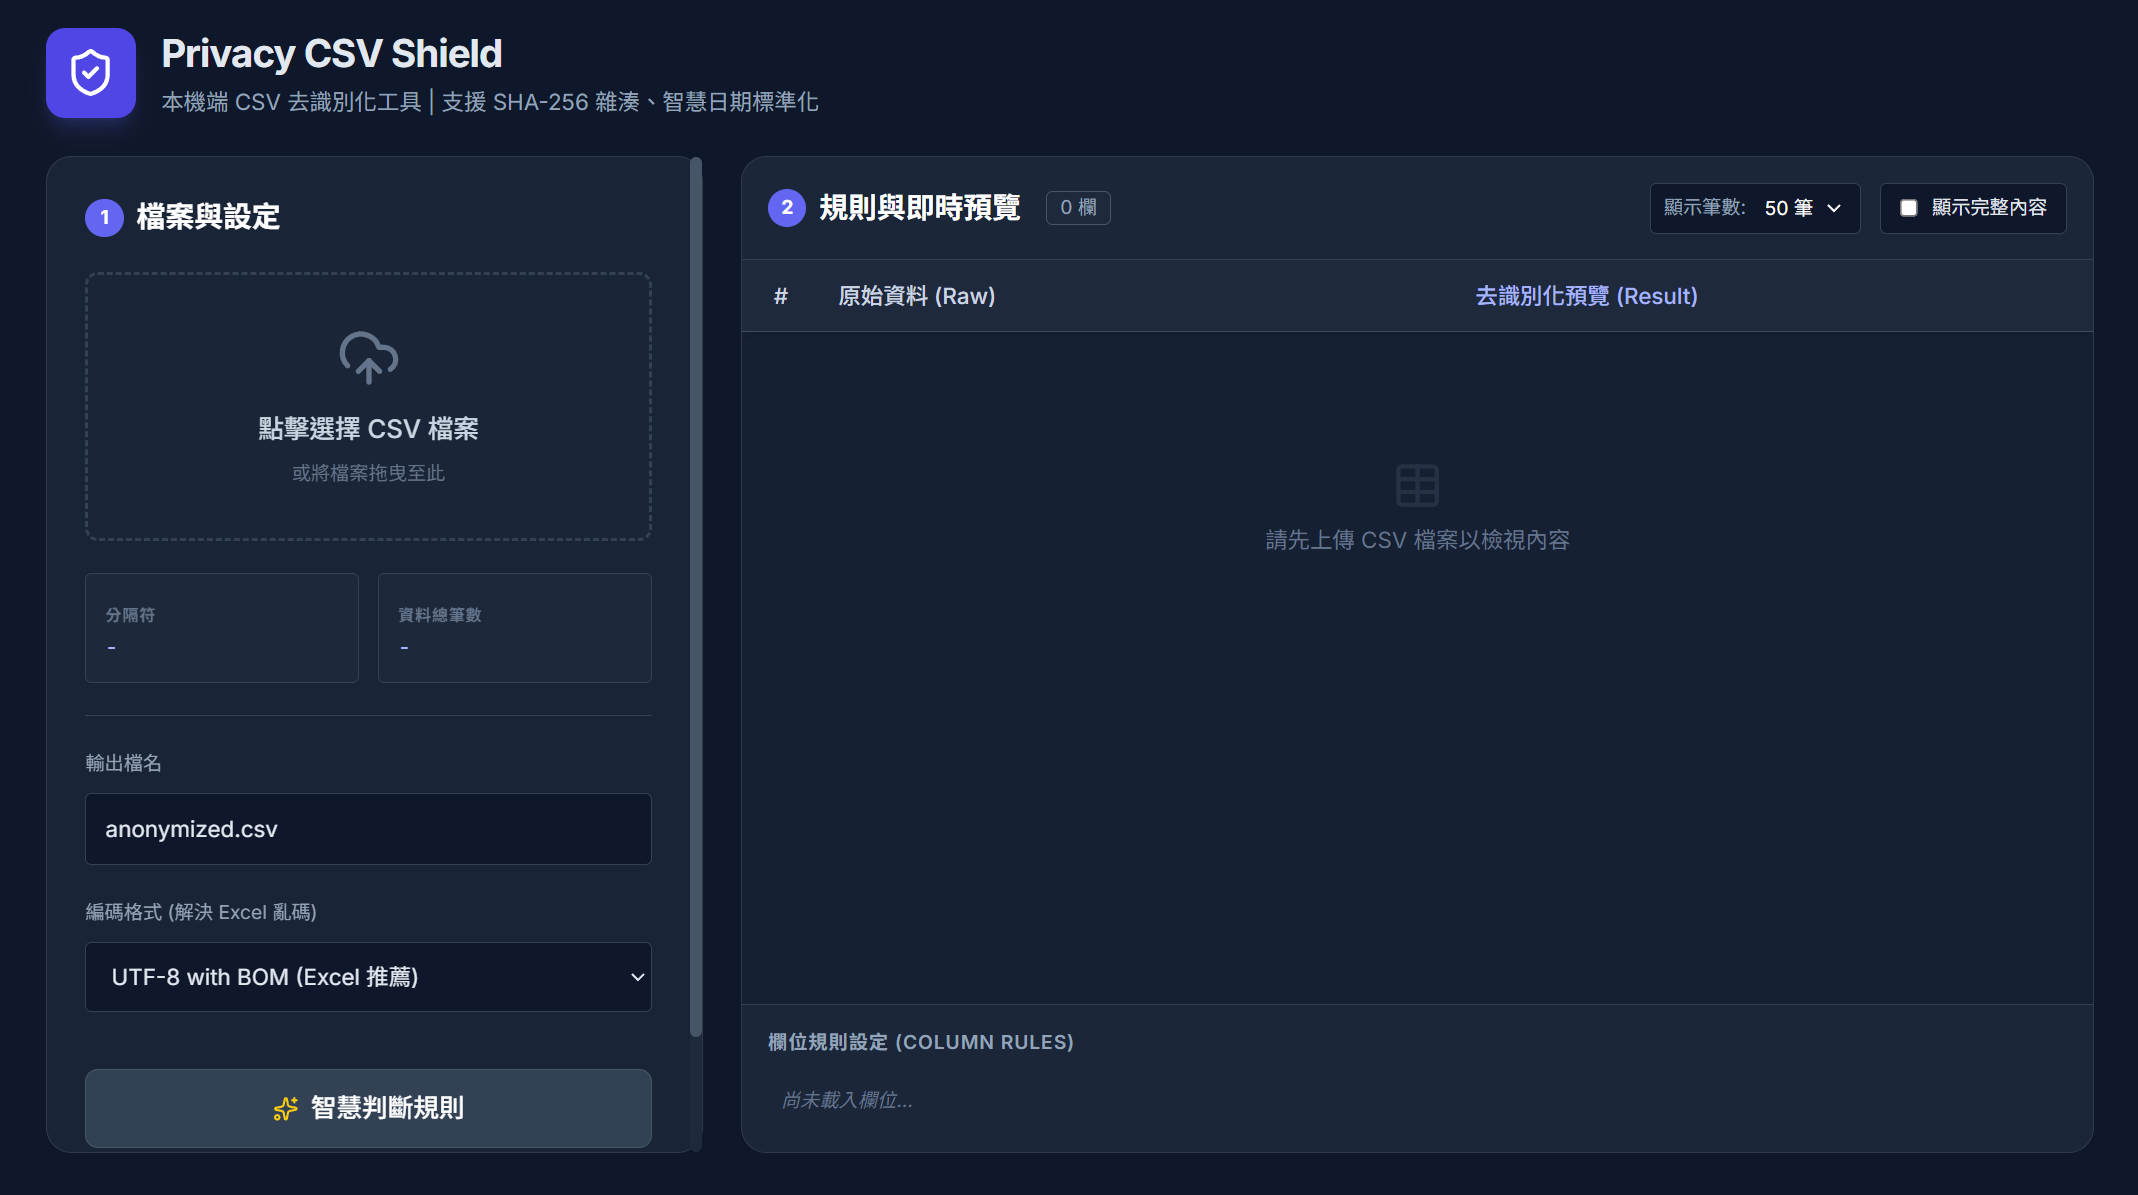
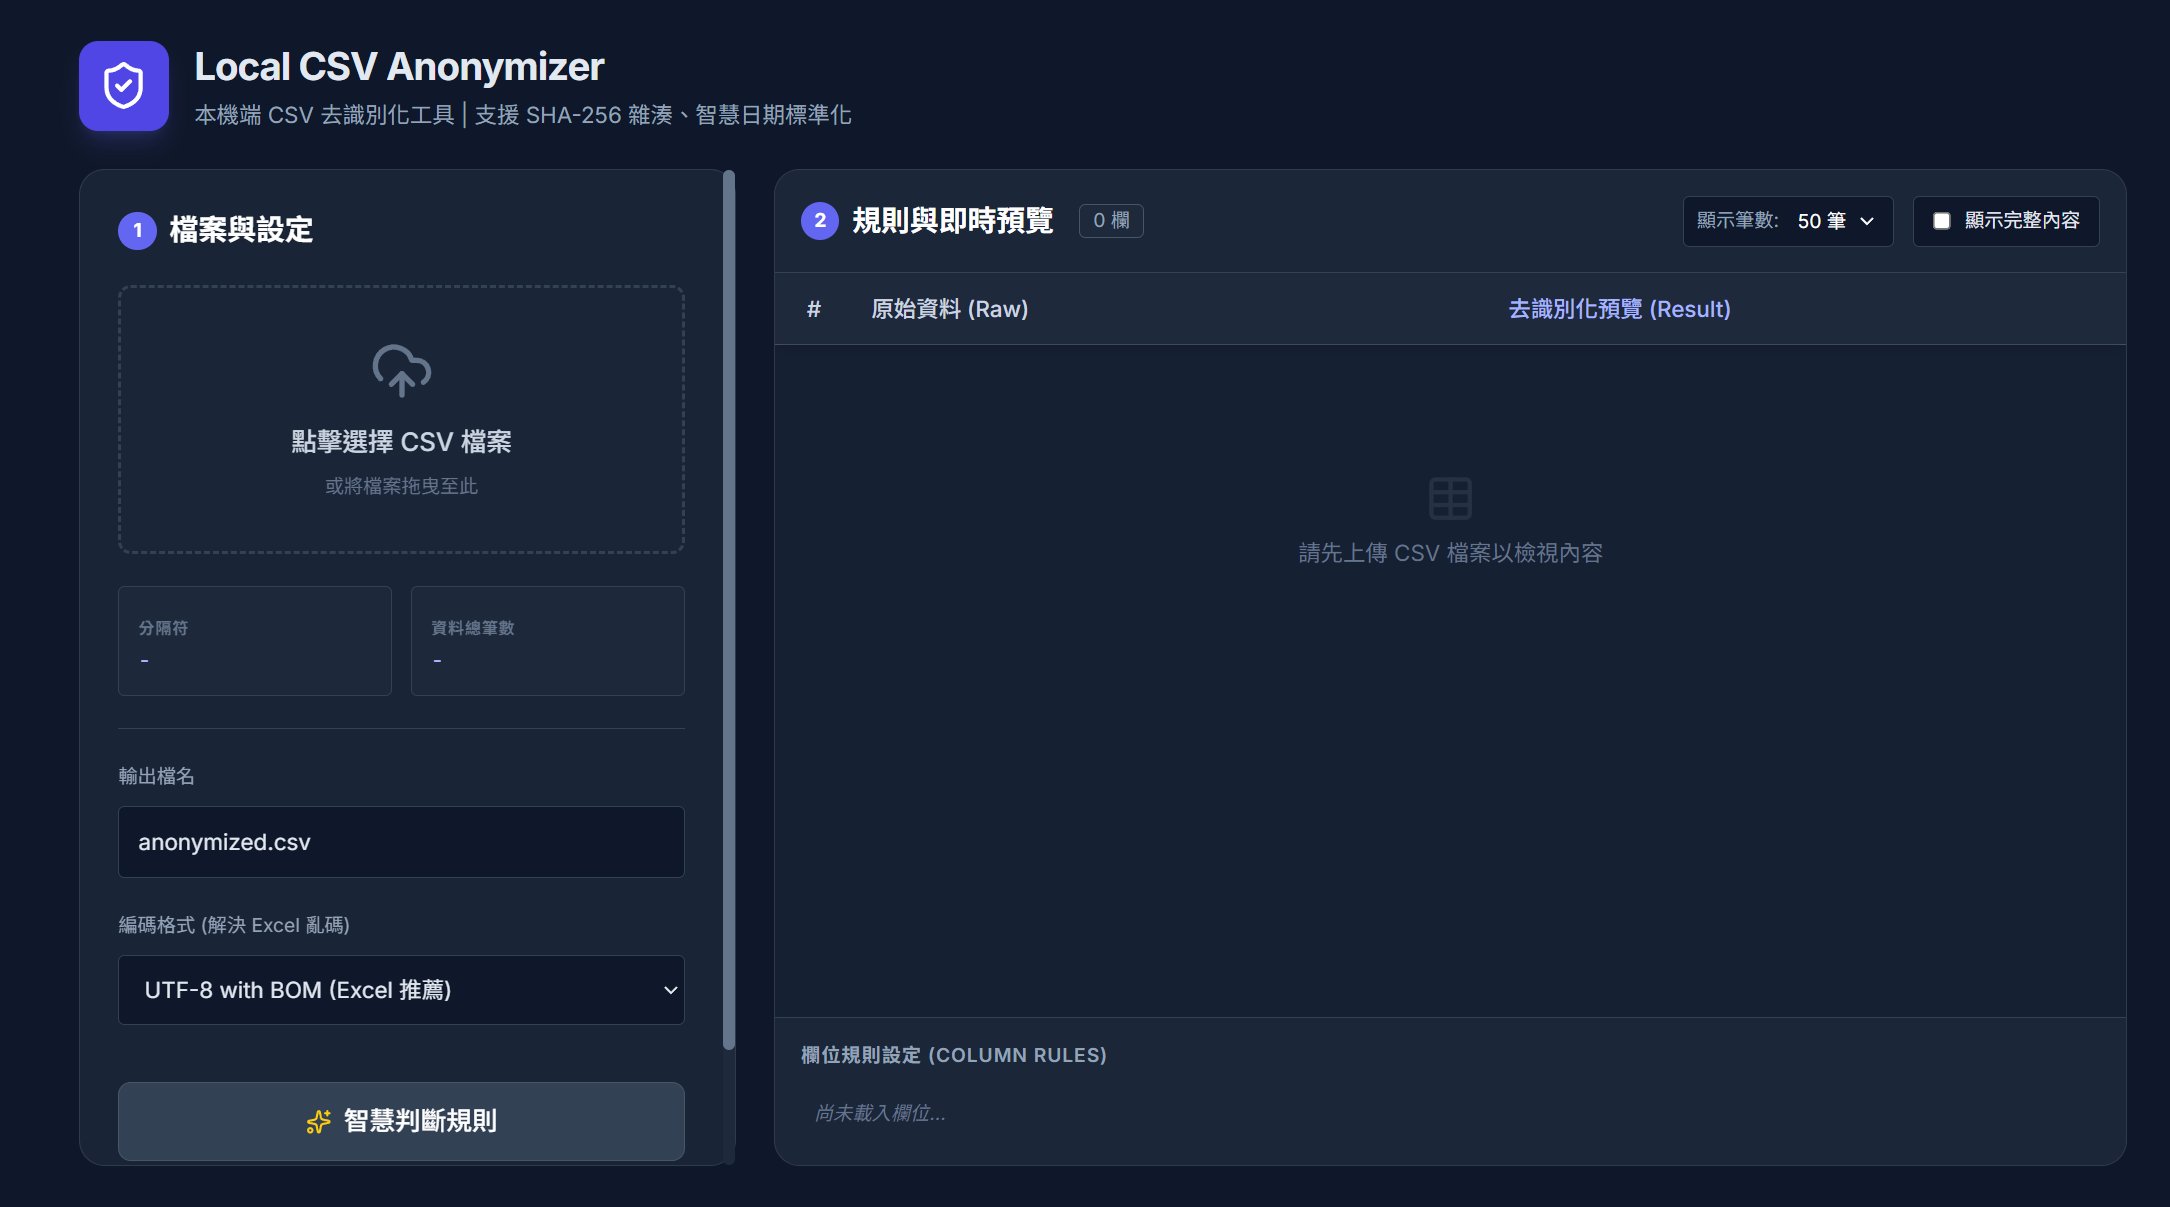
update screenshot.png

diff --git a/index.html b/index.html
@@ -3,7 +3,7 @@
 <head>
     <meta charset="UTF-8">
     <meta name="viewport" content="width=device-width, initial-scale=1.0">
-    <title>Privacy CSV Shield (Pro) - 本機去識別化工具</title>
+    <title>Local CSV Anonymizer - 本機 CSV 去識別化工具</title>
     <script src="https://cdn.tailwindcss.com"></script>
     <script src="https://cdnjs.cloudflare.com/ajax/libs/PapaParse/5.4.1/papaparse.min.js"></script>
     <script src="https://unpkg.com/lucide@latest"></script>
@@ -31,7 +31,7 @@
             <i data-lucide="shield-check" class="w-8 h-8 text-white"></i>
         </div>
         <div>
-            <h1 class="text-2xl font-bold tracking-tight">Privacy CSV Shield</h1>
+            <h1 class="text-2xl font-bold tracking-tight">Local CSV Anonymizer</h1>
             <p class="text-slate-400 text-sm mt-1">本機端 CSV 去識別化工具 | 支援 SHA-256 雜湊、智慧日期標準化</p>
         </div>
     </header>
